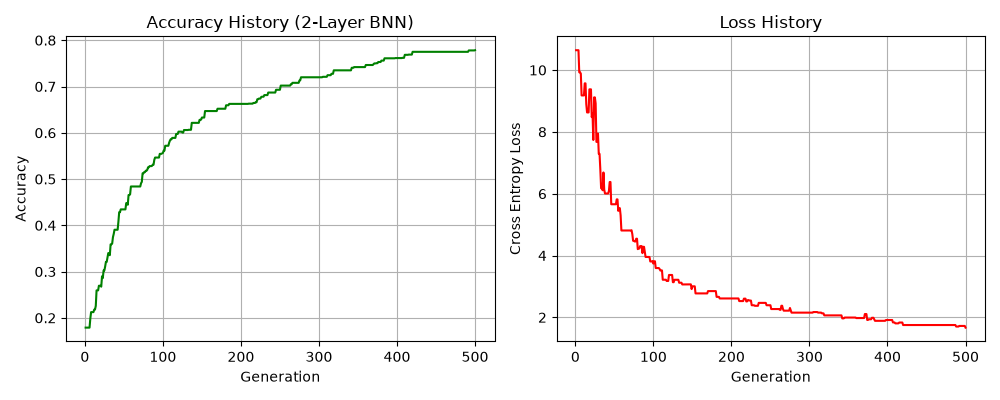
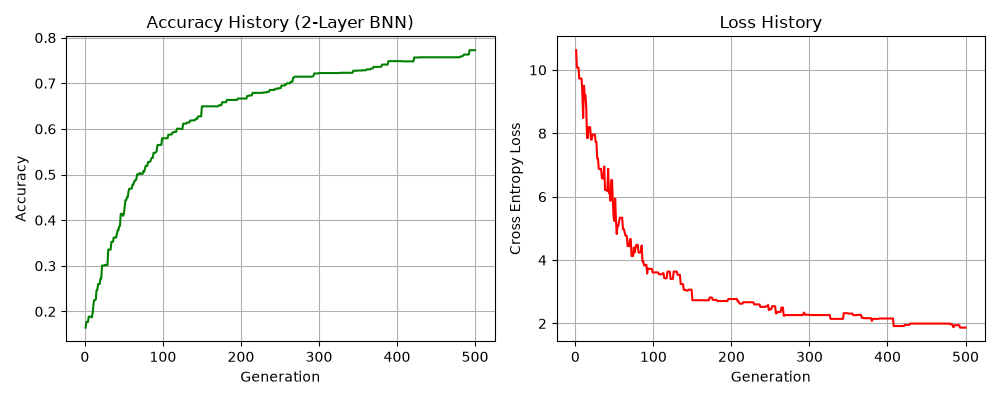
突然変異率が総世代数に依存してるから世代を1000にすると精度が落ちたので、世代は500固定で

diff --git a/script/binarize_ga.py b/script/binarize_ga.py
@@ -227,17 +227,21 @@ def main():
     plt.xlabel("Generation")
     plt.ylabel("Accuracy")
     plt.title("Accuracy History (2-Layer BNN)")
-    plt.grid(True)
+    plt.minorticks_on()
+    plt.grid(True, which="major", linestyle="-", linewidth=0.6, alpha=0.7)
+    plt.grid(True, which="minor", linestyle=":", linewidth=0.4, alpha=0.4)
 
     plt.subplot(1, 2, 2)
     plt.plot(range(1, len(loss_history) + 1), loss_history, "r-")
     plt.xlabel("Generation")
     plt.ylabel("Cross Entropy Loss")
     plt.title("Loss History")
-    plt.grid(True)
+    plt.minorticks_on()
+    plt.grid(True, which="major", linestyle="-", linewidth=0.6, alpha=0.7)
+    plt.grid(True, which="minor", linestyle=":", linewidth=0.4, alpha=0.4)
 
     plt.tight_layout()
-    plt.savefig("./output/binarize_ga_noBN_64.png")
+    plt.savefig("./output/binarize_ga_noBN.png")
 
 
 if __name__ == "__main__":
